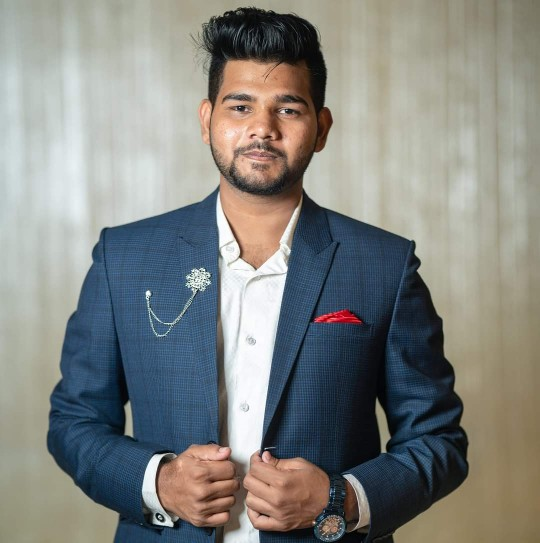
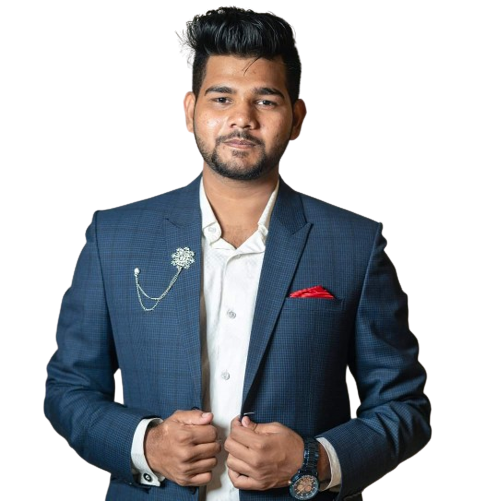
image polishing

diff --git a/src/Pages/Profile/Profile.js b/src/Pages/Profile/Profile.js
@@ -4,8 +4,8 @@ const Profile = () => {
     return (
         <div className="hero">
             <div className="hero-content flex-col lg:flex-row">
-                <div className="flex w-2/4 flex-col flex-50-gt-sm waypoint animated slide-in-left">
-                    <img src={pic} className="rounded-lg lg:w-3/4shadow-2xl  mask mask-squircle" alt='' />
+                <div className="flex w-2/4 flex-col gap-10 flex-50-gt-sm waypoint animated slide-in-left">
+                    <img src={pic} className="rounded-full ring ring-primary ring-offset-base-100 ring-offset-2  " alt='' />
                     <div>
                         <p className='text-3xl font-bold text-center'>Who's this guy?</p>
                         <p className=' font-semibold text-center text-normal '>I am a junior web developer from Chittagong.To achieve the best possible results by making all possible efforts with innovative knowledge and technical skills while keeping honesty and punctuality at a higher priority. </p>
@@ -29,7 +29,7 @@ const Profile = () => {
                     </div>
                     <div className='border border-solid m-5 w-full p-2 rounded bg-cyan-400'>
                         <progress className="progress w-56" value="70" max="100"  ></progress><p className='text-pink-600 text-xl font-bold'>Firebase
- 70%</p>
+                            70%</p>
                     </div>
                     <div className='border border-solid m-5 w-full p-2 rounded bg-cyan-400'>
                         <progress className="progress w-56" value="80" max="100"  ></progress><p className='text-pink-600 text-xl font-bold'>Git 80%</p>
@@ -40,9 +40,10 @@ const Profile = () => {
                     <div className='border border-solid m-5 w-full p-2 rounded bg-cyan-400'>
                         <progress className="progress w-56" value="70" max="100"  ></progress><p className='text-pink-600 text-xl font-bold'>C++ 70%</p>
                     </div>
-                    
+
 
                 </div>
+               
             </div>
         </div>
     );

diff --git a/src/Pages/Home/Home.js b/src/Pages/Home/Home.js
@@ -1,4 +1,5 @@
 import React from 'react';
+import { Link } from 'react-router-dom';
 import { TypeAnimation } from 'react-type-animation';
 import PrimeryButons from '../../Component/PrimeryButons';
 import About from '../About/About';
@@ -6,7 +7,7 @@ import Qualities from '../About/Qualites/Qualities';
 import Contact from '../Contact/Contact';
 import Profile from '../Profile/Profile';
 import Projects from '../Projects/Projects';
-
+import { AiOutlineArrowDown } from "react-icons/ai";
 const Home = () => {
 
     return (
@@ -26,6 +27,7 @@ const Home = () => {
                         </h1>
 
                         <a href="resume.pdf" download="resume.pdf"><PrimeryButons>Get Resume</PrimeryButons></a>
+                        <Link to="/profile"><div className='animate-bounce text-5xl font-bold mb-10 text-pink-600 for'><AiOutlineArrowDown></AiOutlineArrowDown></div></Link>
 
                     </div>
                 </div>

diff --git a/src/Shared/Header/Header.js b/src/Shared/Header/Header.js
@@ -1,4 +1,5 @@
 import React from 'react';
+import { AiFillHome } from 'react-icons/ai';
 import { Link } from 'react-router-dom';
 
 const Header = () => {
@@ -15,7 +16,7 @@ const Header = () => {
                             <Link to="/projects"><li><button className='btn btn-dark btn-outline'>Portfolio</button></li></Link>
                         </ul>
                     </div>
-                    <a href='/' className="btn btn-ghost normal-case font-bold text-2xl">Home</a>
+                    <a href='/' className="btn btn-ghost animate-pulse text-orange-600 text-3xl normal-case font-bold "><AiFillHome></AiFillHome></a>
                 </div>
                 <div className="navbar-center hidden lg:flex">
                     <ul className="menu menu-horizontal px-1">

diff --git a/src/Pages/Route/Route.js b/src/Pages/Route/Route.js
@@ -31,7 +31,7 @@ export const router = createBrowserRouter([
             {
                 path: '/projects/:id',
                 element: <Checkout></Checkout>,
-                loader: ({ params }) => fetch(`https://my-portfolio-server-nine-lilac.vercel.app/${params.id}`)
+                loader: ({ params }) => fetch(`https://my-portfolio-server-nine-lilac.vercel.app/projects/${params.id}`)
             },
             {
                 path: "/about",

diff --git a/src/Pages/Projects/Projects.js b/src/Pages/Projects/Projects.js
@@ -6,7 +6,7 @@ const Projects = () => {
     const { data: projectDatas } = useQuery({
         queryKey: ['projectdatas'],
         queryFn: async () => {
-            const res = await fetch('https://my-portfolio-server-nine-lilac.vercel.app')
+            const res = await fetch('https://my-portfolio-server-nine-lilac.vercel.app/projects')
             const data = await res.json();
             return data;
         }
